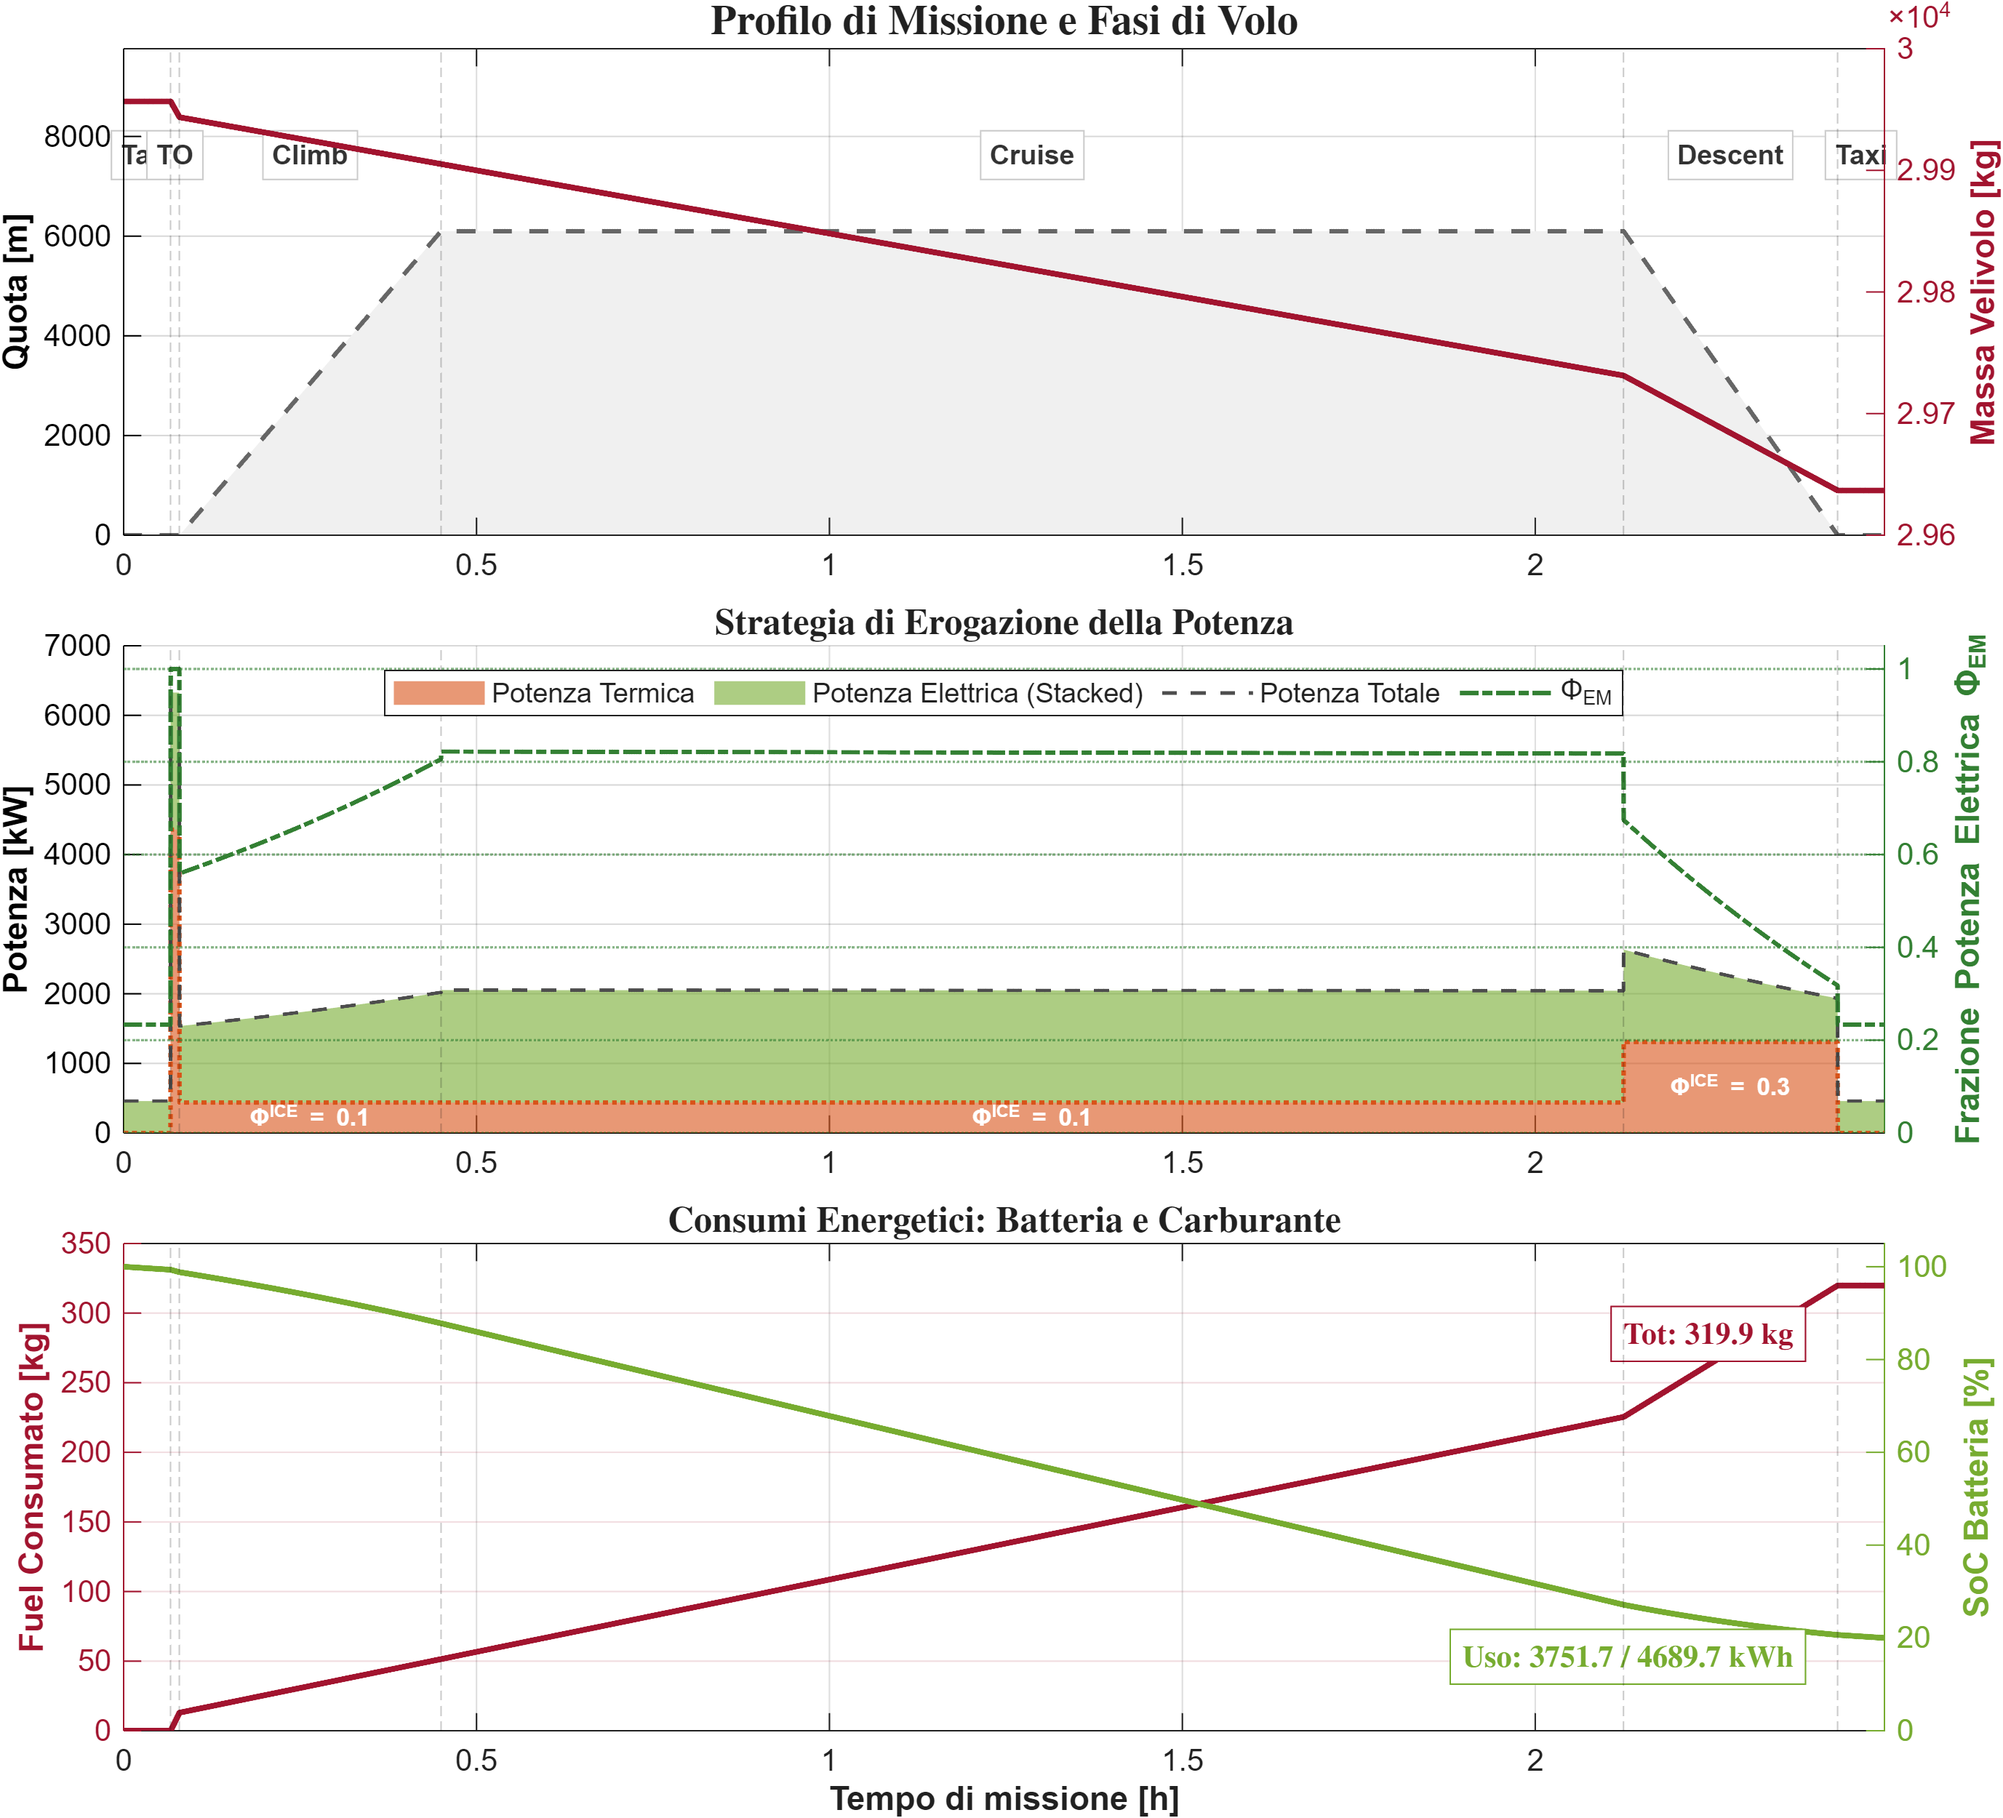
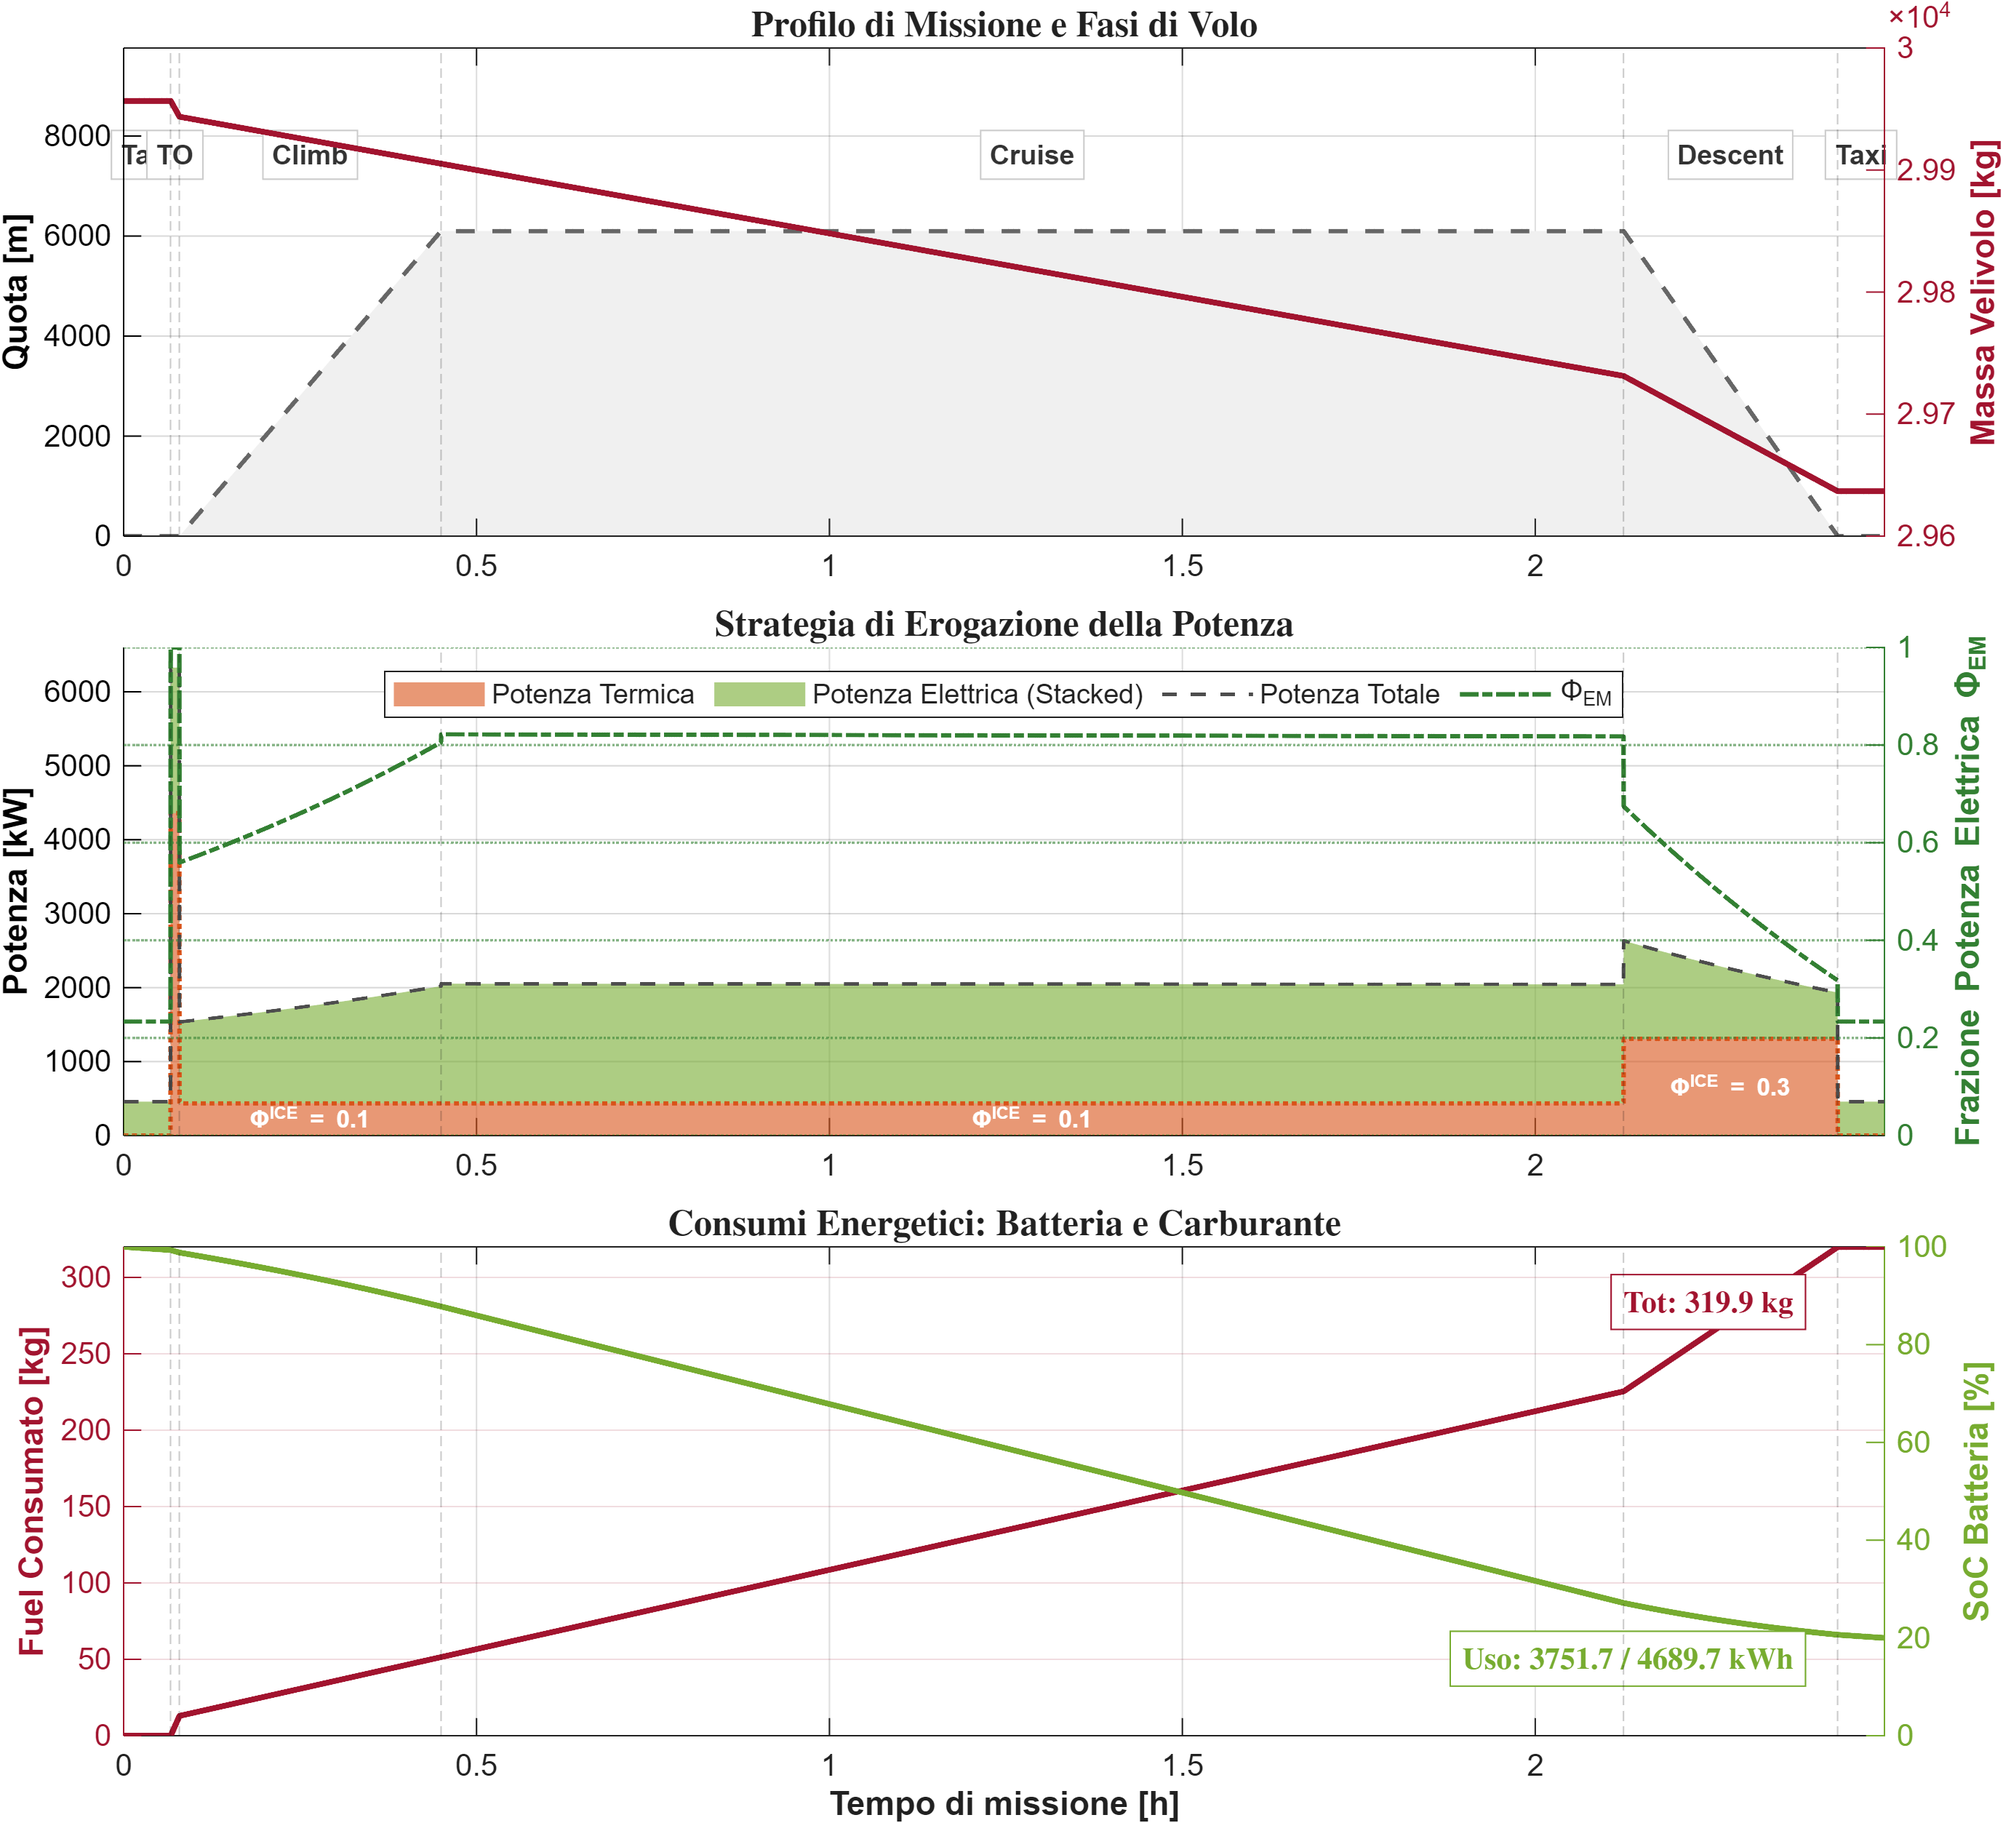
FINITO godo cazzo

diff --git a/aereo_scelto_analisimissione.m b/aereo_scelto_analisimissione.m
@@ -127,7 +127,7 @@ P_em_hist(idx)  = 0;
 % Assumo che E_batt sia l'energia CONSUMATA.
 SoC_hist = 100 * (1 - E_batt ./ E_batt_total_capacity);
 
-%% --- 1. DEFINIZIONE STILI E COLORI ---
+%% --- 1. eDEFINIZIONE STILI E COLORI ---
 % Palette colori professionale
 col_ice   = [0.8500 0.3250 0.0980]; % Arancione
 col_em    = [0.4660 0.6740 0.1880]; % Verde
@@ -172,7 +172,7 @@ ylabel('Massa Velivolo [kg]', 'FontWeight', 'bold', 'Color', col_fuel);
 ax = gca; ax.YColor = col_fuel;
 xlim([0, t_std(end)]);
 
-title('\textbf{Profilo di Missione e Fasi di Volo}', 'Interpreter', 'latex', 'FontSize', 14);
+title('\textbf{Profilo di Missione e Fasi di Volo}', 'Interpreter', 'latex', 'FontSize', 12);
 
 % --- Etichette Fasi (Sopra la quota) ---
 yyaxis left
@@ -229,7 +229,7 @@ plot(t_std, P_ice_hist(1:end_std)/1000, 'Color', col_ice, 'LineWidth', 1.5);
 p_tot = plot(t_std, P_tot_inst/1000, '--', 'Color', [0.3 0.3 0.3], 'LineWidth', 1.2);
 
 ylabel('Potenza [kW]', 'FontWeight', 'bold');
-ylim([0, 7000]); 
+ylim([0, 6600]); 
 ax = gca; ax.YColor = 'k';
 
 % --- ASSE DESTRO: PHI EM ---
@@ -237,7 +237,7 @@ yyaxis right
 p_phi = plot(t_std, phi_em_inst, '-.', 'Color', [0.2 0.5 0.2], 'LineWidth', 1.5);
 ylabel('Frazione Potenza Elettrica \Phi_{EM}', 'FontWeight', 'bold', 'Color', [0.2 0.5 0.2]);
 ax = gca; ax.YColor = [0.2 0.5 0.2];
-ylim([0, 1.05]); 
+ylim([0, 1]); 
 
 % --- FIX GRIGLIA "INVISIBLE" ---
 % Definisco i ticks esatti che voglio vedere (0, 0.2, 0.4...)
@@ -299,6 +299,7 @@ yyaxis left
 fuel_consumed = W(1) - W(1:end_std);
 plot(t_std, fuel_consumed, 'Color', col_fuel, 'LineWidth', 2);
 ylabel('Fuel Consumato [kg]', 'FontWeight', 'bold', 'Color', col_fuel);
+ylim([0 320])
 ax = gca; ax.YColor = col_fuel;
 grid on; hold on;
 
@@ -319,7 +320,7 @@ yyaxis right
 plot(t_std, SoC_hist(1:end_std), 'Color', col_em, 'LineWidth', 2);
 ylabel('SoC Batteria [%]', 'FontWeight', 'bold', 'Color', col_em, 'Interpreter', 'none');
 ax = gca; ax.YColor = col_em;
-ylim([0 105]);
+ylim([0 100]);
 
 % Boxino BATTERIA (Verde) - Posizionato in basso a destra (dove finisce la curva)
 % Lo alzo leggermente (coord Y = 10%) per non farlo toccare terra
@@ -359,7 +360,7 @@ if end_div > start_div
     tiledlayout(1, 2, 'TileSpacing', 'compact', 'Padding', 'compact');
     
     % --- PLOT D1: Profilo di Volo Diversione ---
-    nexttile;
+    nexttile;profi
     area(t_div, quota(start_div:end_div), 'FaceColor', [0.95 0.95 0.95], 'EdgeColor', col_tot, 'LineWidth', 1.5);
     hold on;
     yline(h_cruise_diversion, '--', 'Color', [0.5 0.5 0.5], 'Label', 'Quota Crociera Div.');
@@ -416,9 +417,9 @@ fprintf('\n--- CALCOLO METRICHE AMBIENTALI ---\n');
 
 % --- 1. DATI & COSTANTI ---
 EI_CO2 = 3.16;          % [kg CO2 / kg Fuel] Emission Index standard Jet-A1
-Energy_Density_Fuel = 43; % [MJ/kg] Densità energetica specifica Kerosene
+Energy_Density_Fuel = 43.1; % [MJ/kg] Densità energetica specifica Kerosene
 N_pax = 40;             % Numero passeggeri
-Range_km = range_cruise + 0; % [km] Assumiamo il range di progetto (556 km) 
+Range_km = range + 0; % [km] Assumiamo il range di progetto (556 km) 
 % Nota: se range_cruise è in km bene, se in nm converti: range_cruise*1.852
 
 % --- 2. CALCOLI PER IL TUO AEREO (Hybrid) ---

diff --git a/variabili_design.m b/variabili_design.m
@@ -1,0 +1,41 @@
+function [W_S_vect, phi_ice_cl_vect, phi_ice_cr_vect, phi_ice_de_vect, Hp_vect] = variabili_design(case_selector)
+% GET_DESIGN_VECTORS Restituisce i vettori di progetto in base al caso selezionato.
+%
+% Input:
+%   case_selector : intero 1, 2, o 3
+%       1 -> Spazio Originale
+%       2 -> Aereo Scelto
+%       3 -> Spazio Espanso
+%
+% Output:
+%   Restituisce i vettori W_S, phi_ice (cl, cr, de) e Hp corrispondenti.
+
+    switch case_selector
+        case 1
+            %% SPAZIO ORIGINALE
+            W_S_vect = [280 300 325 350];        % [kg/m^2]
+            phi_ice_cl_vect = [0.1 0.3 0.5];
+            phi_ice_cr_vect = [0.1 0.2 0.3 0.4 0.5];
+            phi_ice_de_vect = [0.1 0.3];
+            Hp_vect = [0.1 0.2 0.3 0.4];         % fattore di ibridizzazione
+
+        case 2
+            %% AEREO SCELTO
+            W_S_vect = [300];                    % [kg/m^2]
+            phi_ice_cl_vect = [0.1];
+            phi_ice_cr_vect = [0.1];
+            phi_ice_de_vect = [0.3];
+            Hp_vect = [0.3];                     % fattore di ibridizzazione
+
+        case 3
+            %% SPAZIO ESPANSO
+            W_S_vect = [280 290 300 310 320 330]; % [kg/m^2]
+            phi_ice_cl_vect = [0.1 0.2 0.3];
+            phi_ice_cr_vect = [0.1 0.12 0.15 0.2];
+            phi_ice_de_vect = [0.1 0.2 0.3 0.4];
+            Hp_vect = [0.25 0.30 0.35 0.4 0.5];   % fattore di ibridizzazione
+
+        otherwise
+            error('Selezione non valida. Inserire 1, 2 o 3.');
+    end
+end

diff --git a/radar_chart_v2.m b/radar_chart_v2.m
@@ -24,7 +24,7 @@ end
 
 % --- 3. IDENTIFICAZIONE CONFIGURAZIONI ---
 % A) REFERENCE: BEST FUEL
-[~, idx_ref] = min(abs(data.W_block_fuel-298.77));
+[~, idx_ref] = min(abs(data.W_block_fuel-306.86));
 
 % B) TARGET: DESIGN SCELTO
 target_WS = 300; 
@@ -162,5 +162,5 @@ str_ref = sprintf('Block Fuel Inferiore (W/S=%d, H_P=%.1f, \\Phi=[%.1f, %.1f, %.
 legend({str_ref, str_scelto}, ...
     'Location', 'southoutside', 'Orientation', 'vertical', 'FontSize', 11);
 
-title('Confronto configurazione scelta vs. < 2 MW con block fuel inferiore', 'FontSize', 14, 'FontWeight', 'bold');
-saveas(gcf, 'Radar_Comparison.png');
+title('Confronto configurazione scelta vs. block fuel inferiore sul fronte di Pareto', 'FontSize', 14, 'FontWeight', 'bold');
+saveas(gcf, 'Espanso_Radar_Comparison.png');

diff --git a/analisi_sensitivita.m b/analisi_sensitivita.m
@@ -154,7 +154,7 @@ for k = 1:num_targets
     c.Label.String = dom_name; % Nome variabile dominante
     
     set(f1, 'PaperPositionMode', 'auto');
-    saveas(f1, ['Impact_MainEffects_' current_suffix '.png']);
+    saveas(f1, ['ESPANSO_Impact_MainEffects_' current_suffix '.png']);
     
     % --- PLOT 2: SENSITIVITY (Bar Plot) ---
     f2 = figure('Name', ['Sensitivity_' current_suffix], 'Color', 'w', 'Position', fig_pos);
@@ -177,7 +177,7 @@ for k = 1:num_targets
     xline(0, 'k-', 'LineWidth', 1);
     
     set(f2, 'PaperPositionMode', 'auto');
-    saveas(f2, ['Impact_Sensitivity_' current_suffix '.png']);
+    saveas(f2, ['ESPANSO_Impact_Sensitivity_' current_suffix '.png']);
     
     % Chiudo le figure come richiesto
     close(f1); 

diff --git a/codice_completo.m b/codice_completo.m
@@ -1,12 +1,10 @@
 clearvars;close all;clc;requisiti;dati;fusoliera;
 
-% variabili di design
-W_S_vect = [280 290 300 310 320 330]; % [kg/m^2]
-phi_ice_cl_vect = [0.1 0.2 0.3];
-phi_ice_cr_vect = [0.1 0.12 0.15 0.2];
-phi_ice_de_vect = [0.1 0.2 0.3 0.4];
-Hp_vect = [0.25 0.30 0.35 0.4 0.5]; % fattore di ibridizzazione
-% aereo_scelto;
+% variabili di design. input:
+%       1 -> Spazio Originale
+%       2 -> Aereo Scelto
+%       3 -> Spazio Espanso
+[W_S_vect, phi_ice_cl_vect, phi_ice_cr_vect, phi_ice_de_vect, Hp_vect] = variabili_design(1);
 
 % inizializzazione valori del ciclo
 Cd0 = Cd0_livello0;

diff --git a/requisiti.m b/requisiti.m
@@ -3,6 +3,7 @@ H_req = 319;
 L_req = 693;
 passeggeri = round(30+15*L_req/999); % = 40
 range = (300+300*(H_req-319)/43 )*1.852; % [km] = 300 nm
+% range = 370.4;
 BED = 400+200*L_req/999; % [W*h/kg] = 538.7
 % BFL = 1100; % [m]
 
